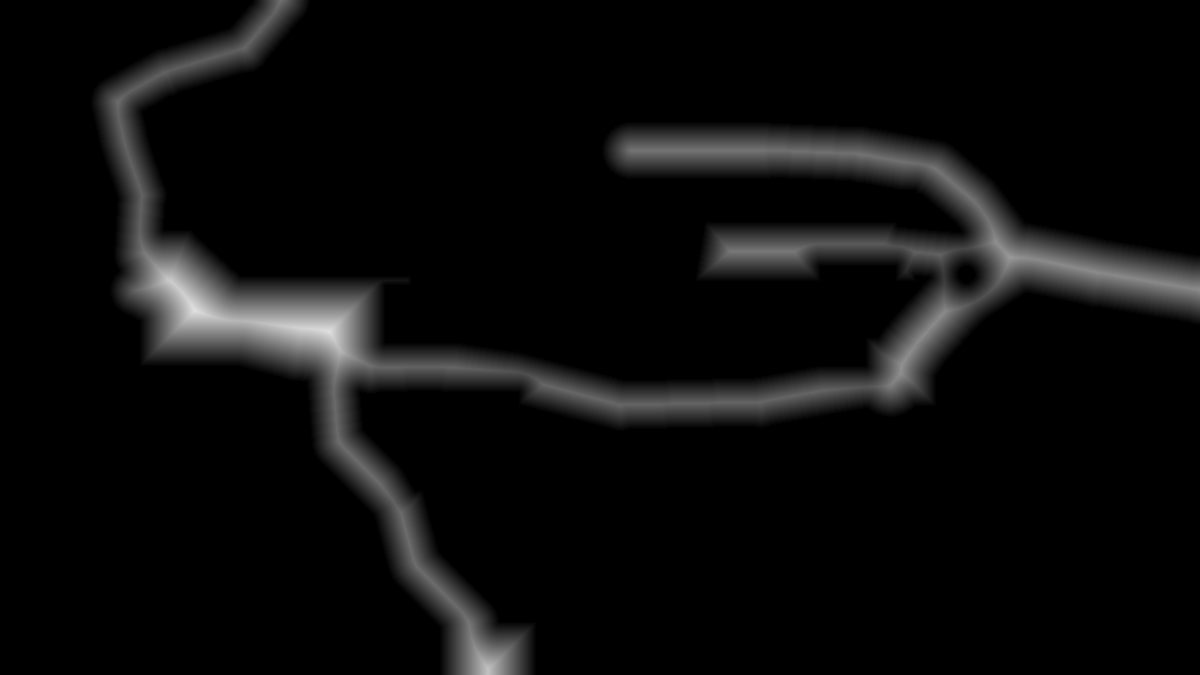
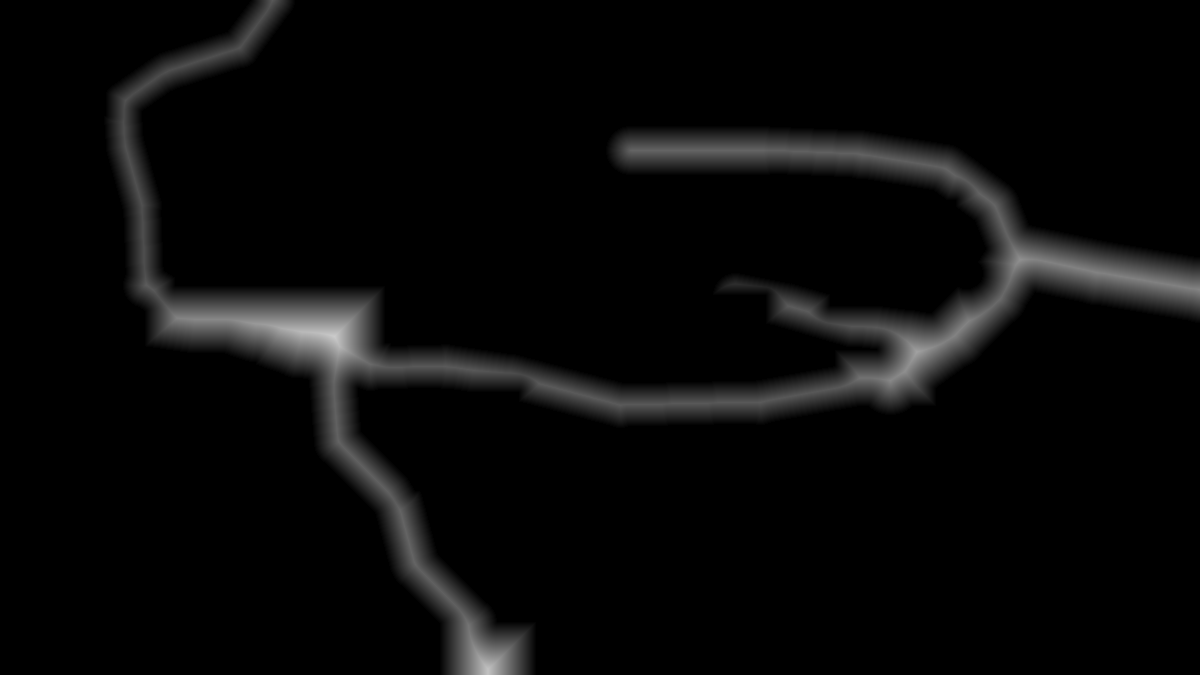
fix(colinas): tighten SDF walkmask collisions for all 8 reported spots

diff --git a/tools/build_walkmasks_v6.py b/tools/build_walkmasks_v6.py
@@ -225,53 +225,69 @@ def build_colinas_mask():
 
     # 1. East Village Road (Colinas East <-> Centro West)
     add_thick_path(d, [
-        (1200, 290), (1095, 272), (1020, 256), (960, 295),
-        (915, 345), (890, 382)
-    ], half_width=34)
+        (1200, 290), (1095, 272), (1020, 256), (995, 295),
+        (955, 335), (890, 382)
+    ], half_width=32)
 
-    # 2. Upper Mine Gantry Terrace & Rails + Ramp
+    # 2. Upper Mine Gantry Terrace & Rails + Ramp from East Road
     add_thick_path(d, [
-        (1015, 255), (975, 202), (935, 168), (860, 154), (765, 150), (630, 150)
-    ], half_width=28)
-    d.polygon([(705, 222), (895, 222), (915, 280), (695, 280)], fill=255)
-    add_thick_path(d, [(875, 248), (945, 255), (1005, 258)], half_width=24)
+        (1015, 255), (995, 205), (945, 168), (860, 154), (765, 150), (630, 150)
+    ], half_width=24)
+
+    # 2b. Lower Mine Entrance Clearing (accessed from East Road via x=900..960, y=320..350)
+    add_thick_path(d, [
+        (960, 340), (910, 332), (850, 324), (785, 305), (735, 295)
+    ], half_width=22)
 
     # 3. Lower Quarry Road across East Stairs <-> Stone Arch Bridge <-> West Cabin Plaza
-    d.polygon([(835, 338), (935, 338), (935, 405), (835, 405)], fill=255)
+    d.polygon([(835, 350), (935, 350), (935, 405), (835, 405)], fill=255)
     add_thick_path(d, [
         (870, 382), (760, 402), (620, 405), (510, 376),
-        (445, 366), (370, 368), (295, 355), (210, 332), (135, 290)
-    ], half_width=25)
+        (445, 366), (370, 368), (295, 355), (210, 325), (145, 285)
+    ], half_width=22)
 
-    d.polygon([(140, 230), (390, 230), (390, 365), (140, 365)], fill=255)
-    d.polygon([(320, 255), (410, 255), (410, 320), (320, 320)], fill=255)
+    # West Cabin Plaza (strictly south of the porch/fence y=285, north of cliff fence y=340)
+    d.polygon([(145, 280), (390, 280), (390, 352), (145, 352)], fill=255)
 
-    # 4. Northwest Mountain Trail & Lookout Stairs
+    # 4. Northwest Mountain Trail & Lookout Stairs (kept strictly on stone path)
     add_thick_path(d, [
-        (138, 255), (142, 195), (125, 145), (115, 100),
-        (165, 72), (245, 48), (285, 0)
-    ], half_width=24)
+        (145, 280), (142, 205), (125, 145), (122, 102),
+        (165, 72), (240, 48), (275, 0)
+    ], half_width=19)
 
     # 5. South Double Coastal Staircase -> Sandy Beach Exit (Colinas South <-> Costa NW)
     add_thick_path(d, [
         (332, 368), (338, 442), (398, 502), (415, 565),
         (472, 622), (482, 675)
-    ], half_width=26)
+    ], half_width=24)
     d.polygon([(440, 622), (535, 622), (535, 675), (440, 675)], fill=255)
 
     # --- SOLID OBSTACLES CARVED OUT ---
-    d.polygon([(185, 125), (415, 125), (415, 275), (240, 275), (185, 225)], fill=0)
+    # Posto dos Mineradores cabin + fenced porch (Screenshot 021912)
+    d.polygon([(175, 120), (415, 120), (415, 285), (175, 285)], fill=0)
+    # Upper-left cliff rocks above NW trail (Screenshot 021918)
+    d.polygon([(0, 0), (105, 0), (105, 115), (0, 115)], fill=0)
+    # West cliff wooden fence & rocks (Screenshot 021907)
+    d.polygon([(0, 325), (255, 362), (255, 435), (0, 435)], fill=0)
+    # East-upper buildings & bushes
     d.polygon([(1018, 75), (1200, 75), (1200, 228), (1065, 228), (1018, 180)], fill=0)
     d.polygon([(1125, 335), (1200, 335), (1200, 455), (1125, 455)], fill=0)
 
+    # Upper-middle & upper-right cliff + fence above mine entrance (Screenshots 021827, 021830)
+    d.polygon([(620, 175), (955, 200), (955, 265), (620, 255)], fill=0)
+    # Lamp post & rock/log near east road (Screenshot 021837)
+    d.ellipse([950, 258, 982, 288], fill=0)
+    d.ellipse([1098, 332, 1126, 354], fill=0)
+    # Mossy boulder & rock cluster right of mine entrance (Screenshot 021839)
+    d.polygon([(830, 265), (890, 265), (890, 305), (830, 305)], fill=0)
+    d.polygon([(645, 295), (765, 295), (765, 365), (645, 365)], fill=0)
+
+    # Center waterfall & bridge railings
     d.polygon([(385, 285), (535, 285), (535, 342), (385, 342)], fill=0)
     d.polygon([(388, 392), (518, 392), (518, 490), (415, 490), (388, 445)], fill=0)
 
-    d.ellipse([958, 266, 974, 282], fill=0)
-    d.ellipse([1098, 332, 1126, 354], fill=0)
-    d.polygon([(645, 295), (865, 295), (865, 365), (645, 365)], fill=0)
-    d.polygon([(745, 182), (915, 190), (915, 212), (745, 204)], fill=0)
-    d.rectangle([820, 266, 895, 288], fill=0)
+    # Bottom-center wooden fence & coastal cliff edge (Screenshot 021853)
+    d.polygon([(530, 428), (860, 428), (860, 540), (530, 540)], fill=0)
 
     return im
 
